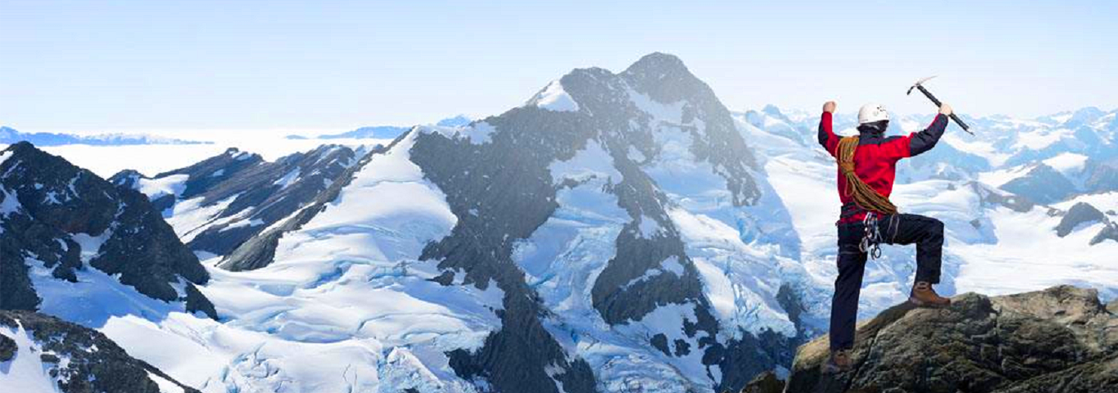
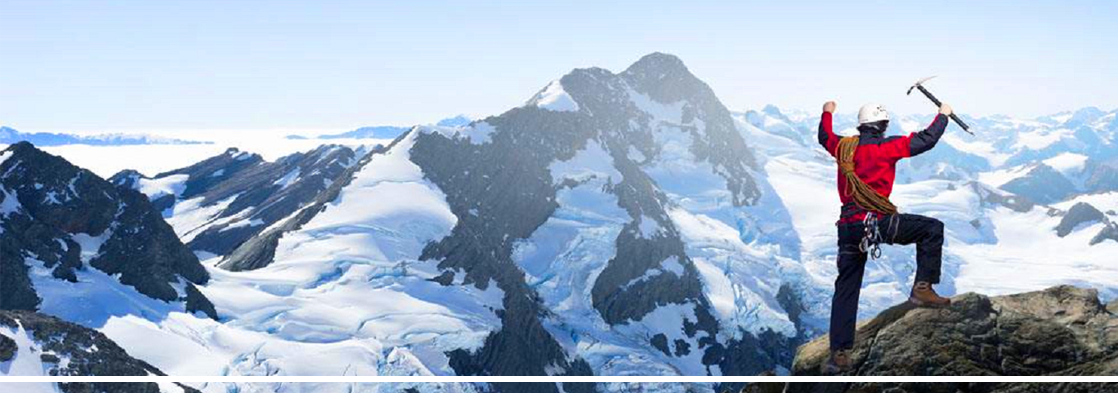
登录页背景图片

Changed region(s): [[0.1825, 0.9466, 1.0, 0.9771], [0.0, 0.9466, 0.1521, 0.9771]]

diff --git a/css/layout.css b/css/layout.css
@@ -23,7 +23,7 @@
 	background: url(../images/index-bg-center.png) 0 0 no-repeat;
 	background-size: 100% auto;
 	width: 100%;
-	height: 500px;
+	height: 670px;
 	position: absolute;
 	top: 18%;
 	z-index: 1;
